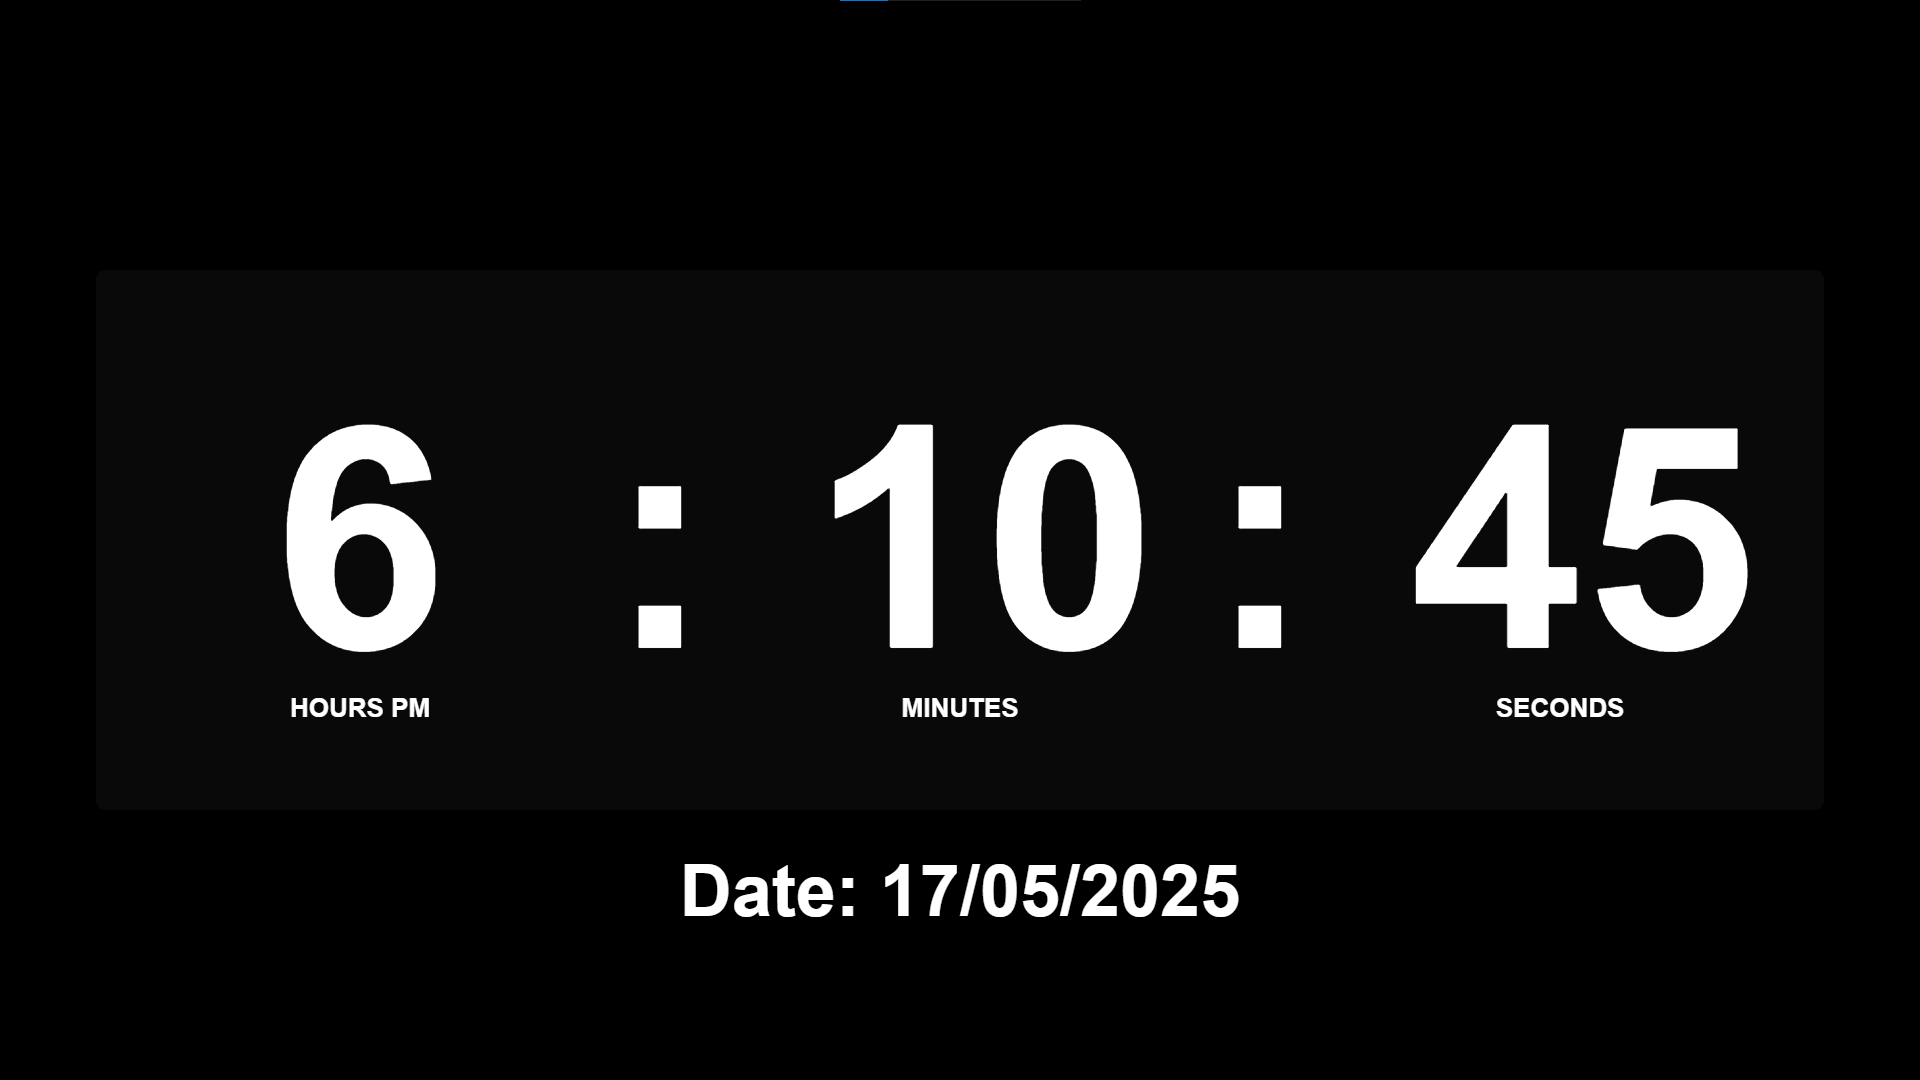
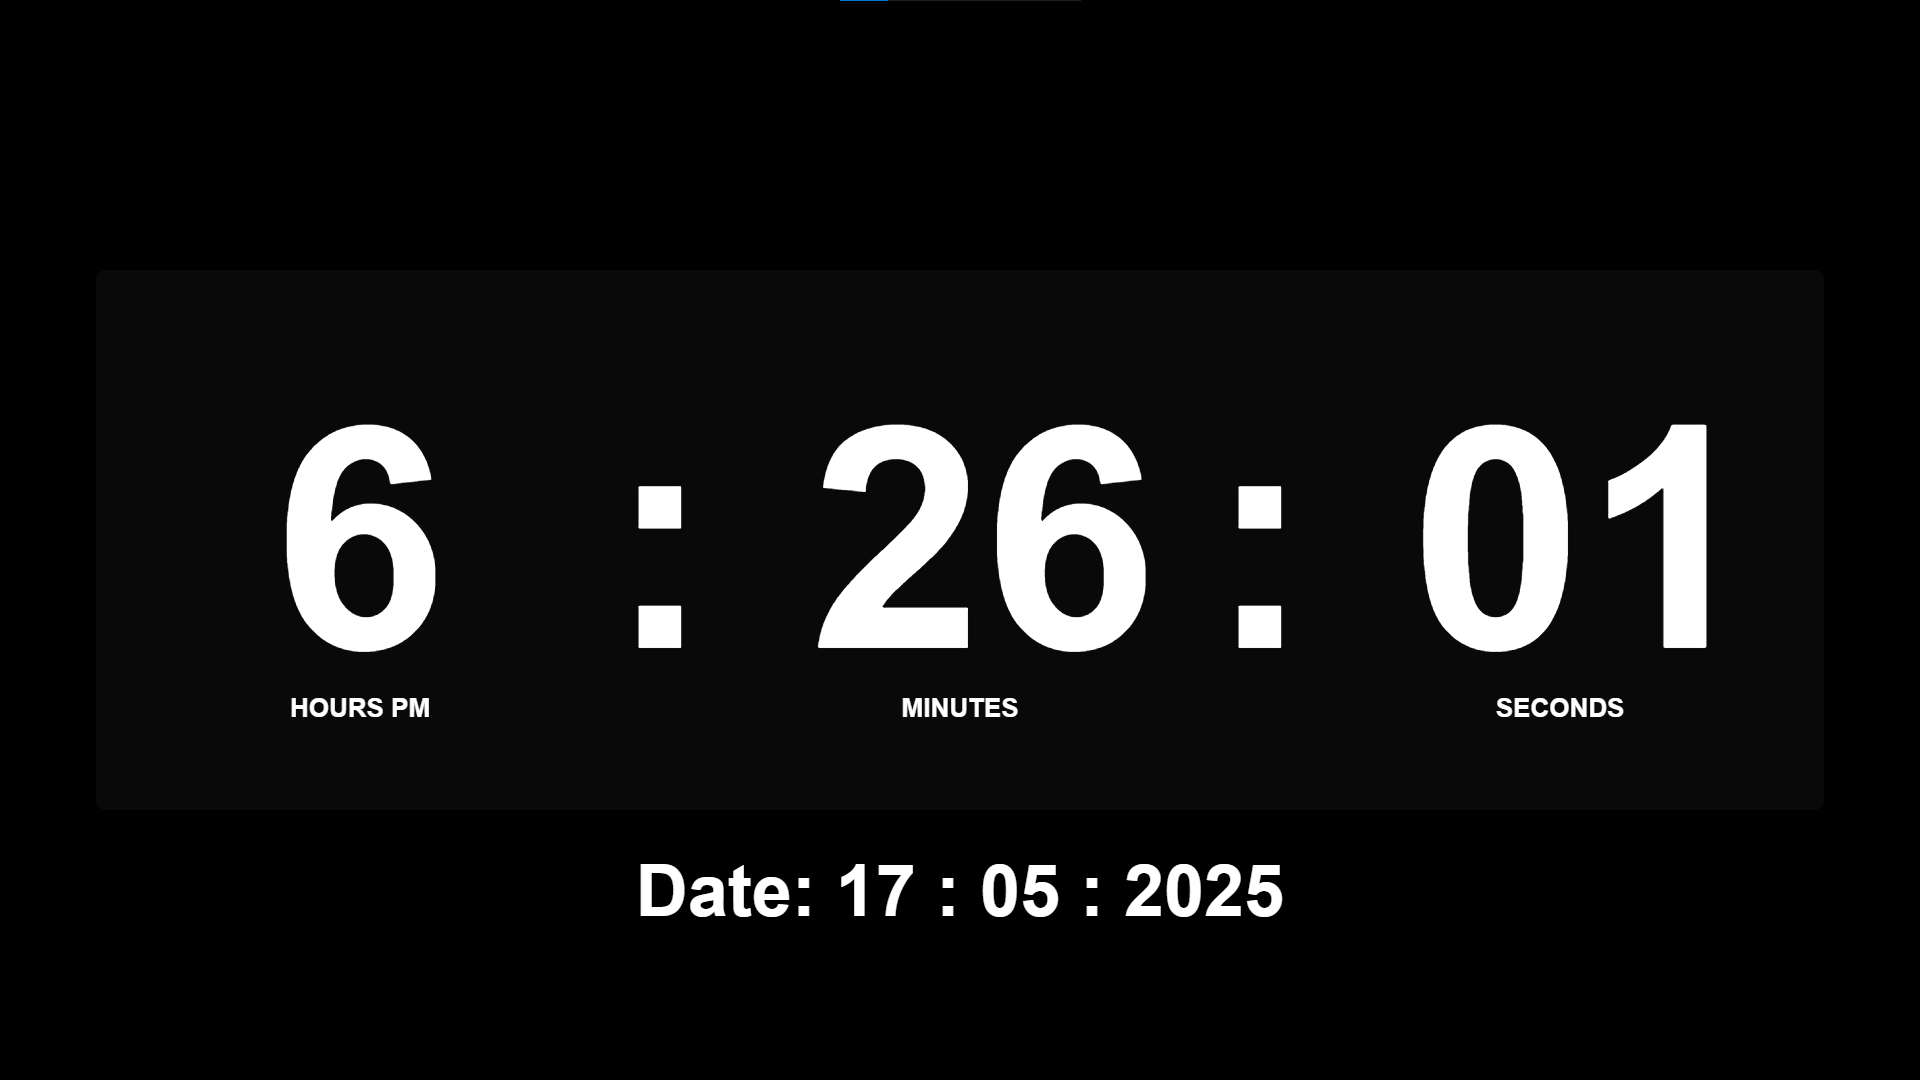
v 2.1

diff --git a/index.css b/index.css
@@ -18,7 +18,6 @@ body {
     overflow: hidden;
 }
 
-
 .hero{
     width: 100%;
     min-height: 100vh;
@@ -28,12 +27,10 @@ body {
 
 .container{
     width: 90vw;
-    height: 45vh;
-    
+    height: 45vh;    
     position: absolute;
     top: 50%;
-    left: 50%;
-    
+    left: 50%;    
     transform: translate(-50%,-50%);
     z-index: 1;
 }
@@ -69,14 +66,10 @@ body {
     transform: translateX(-50%);
 }
 
-#hr::after{
-    content: 'HOURS';
-}
 
 #hr::after {
     content: ' HOURS ' attr(data-ampm);
 }
-
 
 #min::after{
     content: 'MINUTES';

diff --git a/index.html b/index.html
@@ -61,7 +61,7 @@
             month = month < 10 ? "0" + month : month;
     
             // Display date
-            dateDisplay.innerHTML = `Date: ${day}/${month}/${year}`;
+            dateDisplay.innerHTML = `Date: ${day} : ${month} : ${year}`;
         }, 1000);
         
         /*
